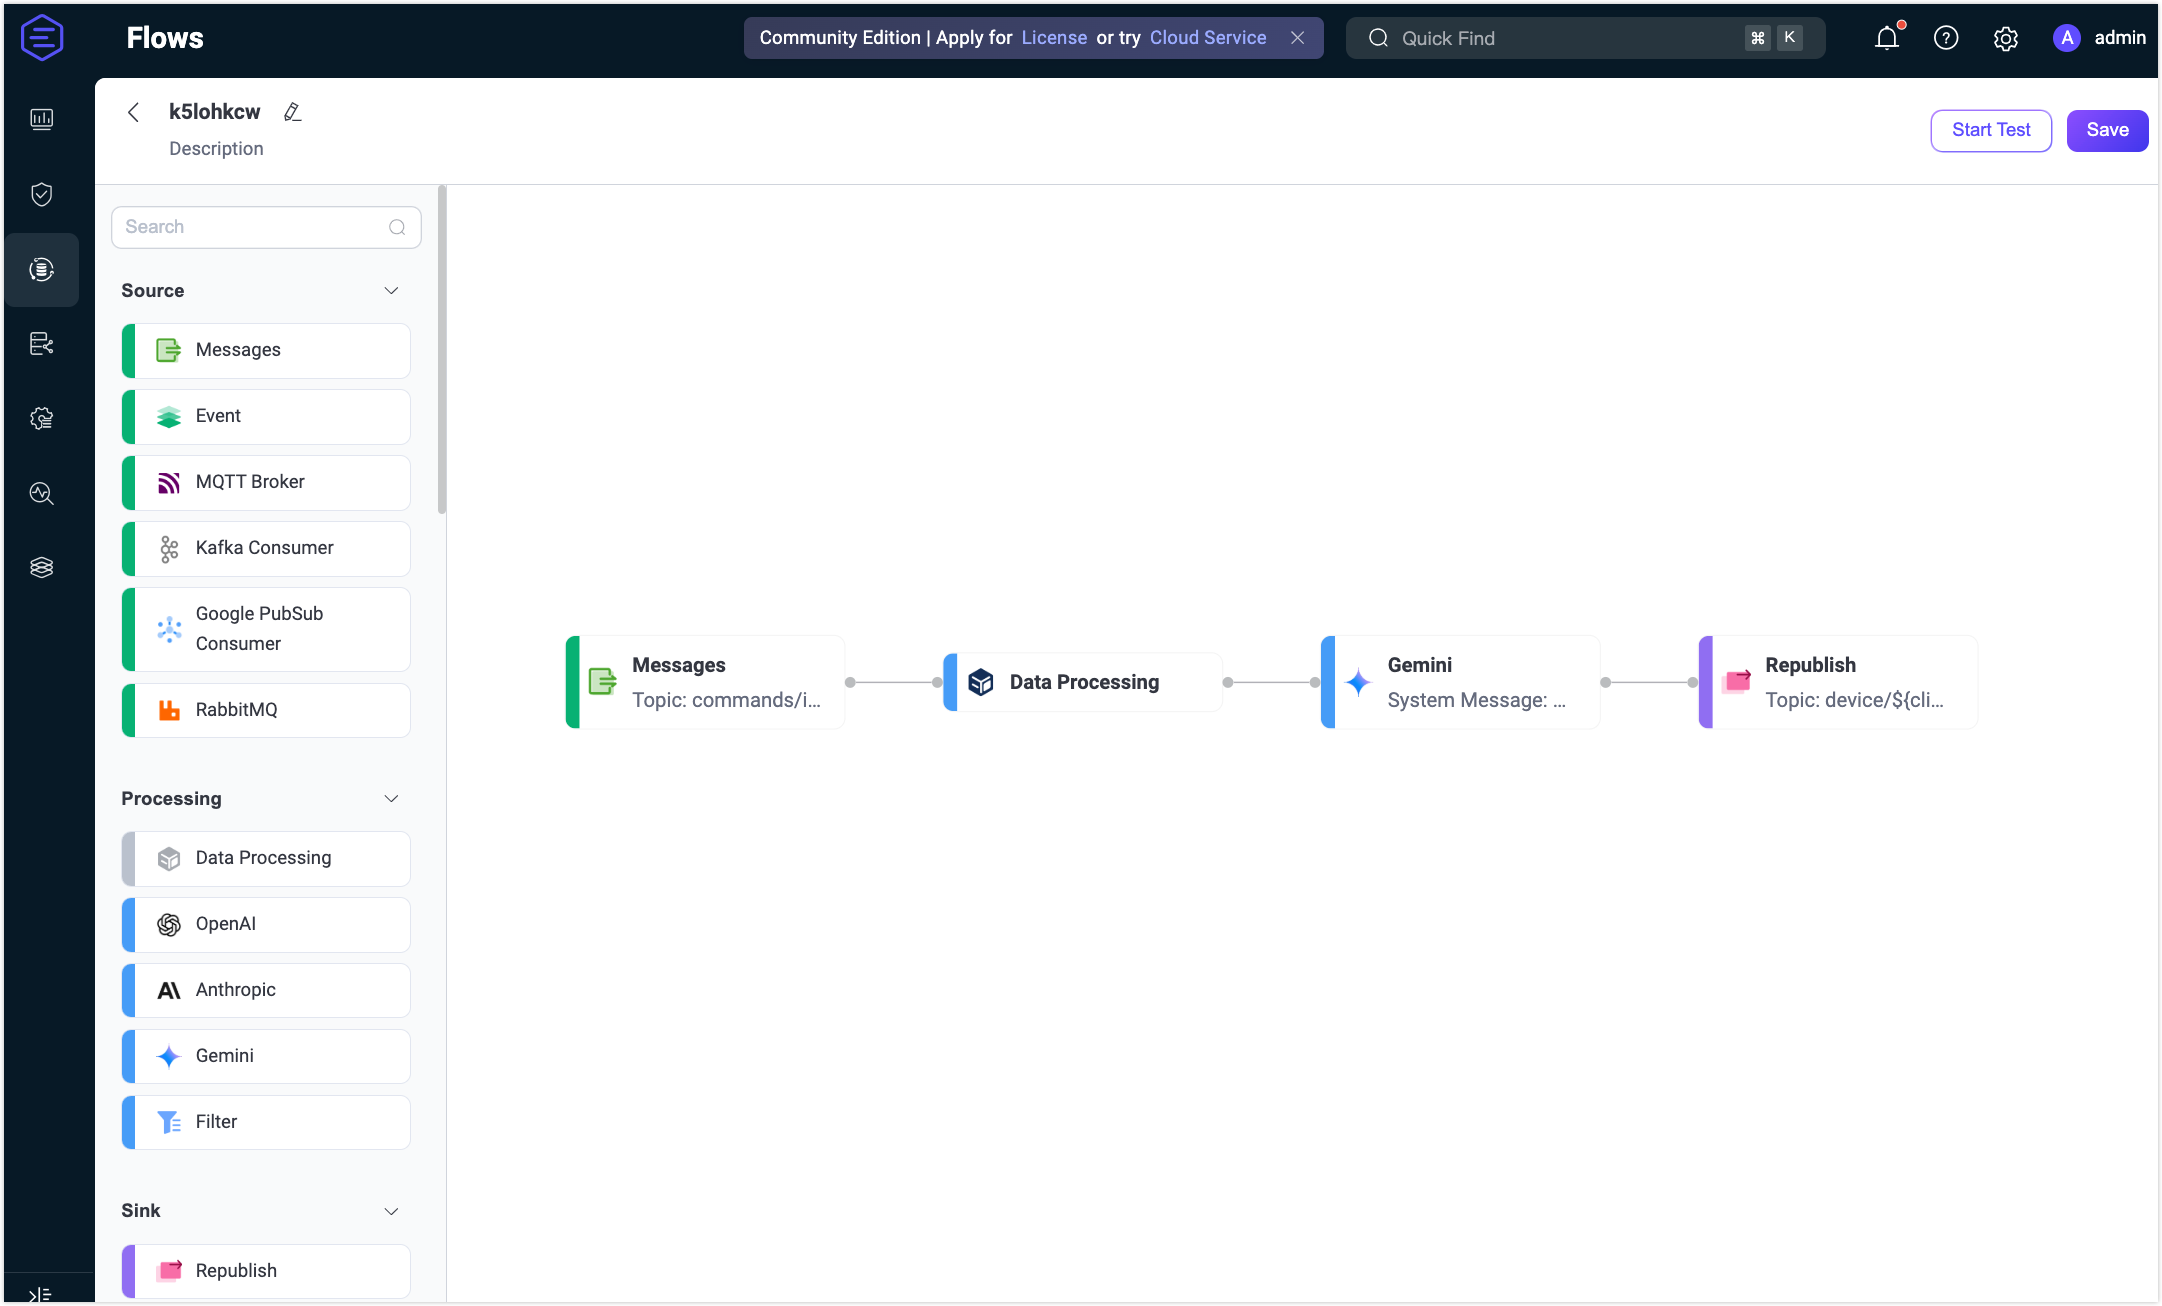
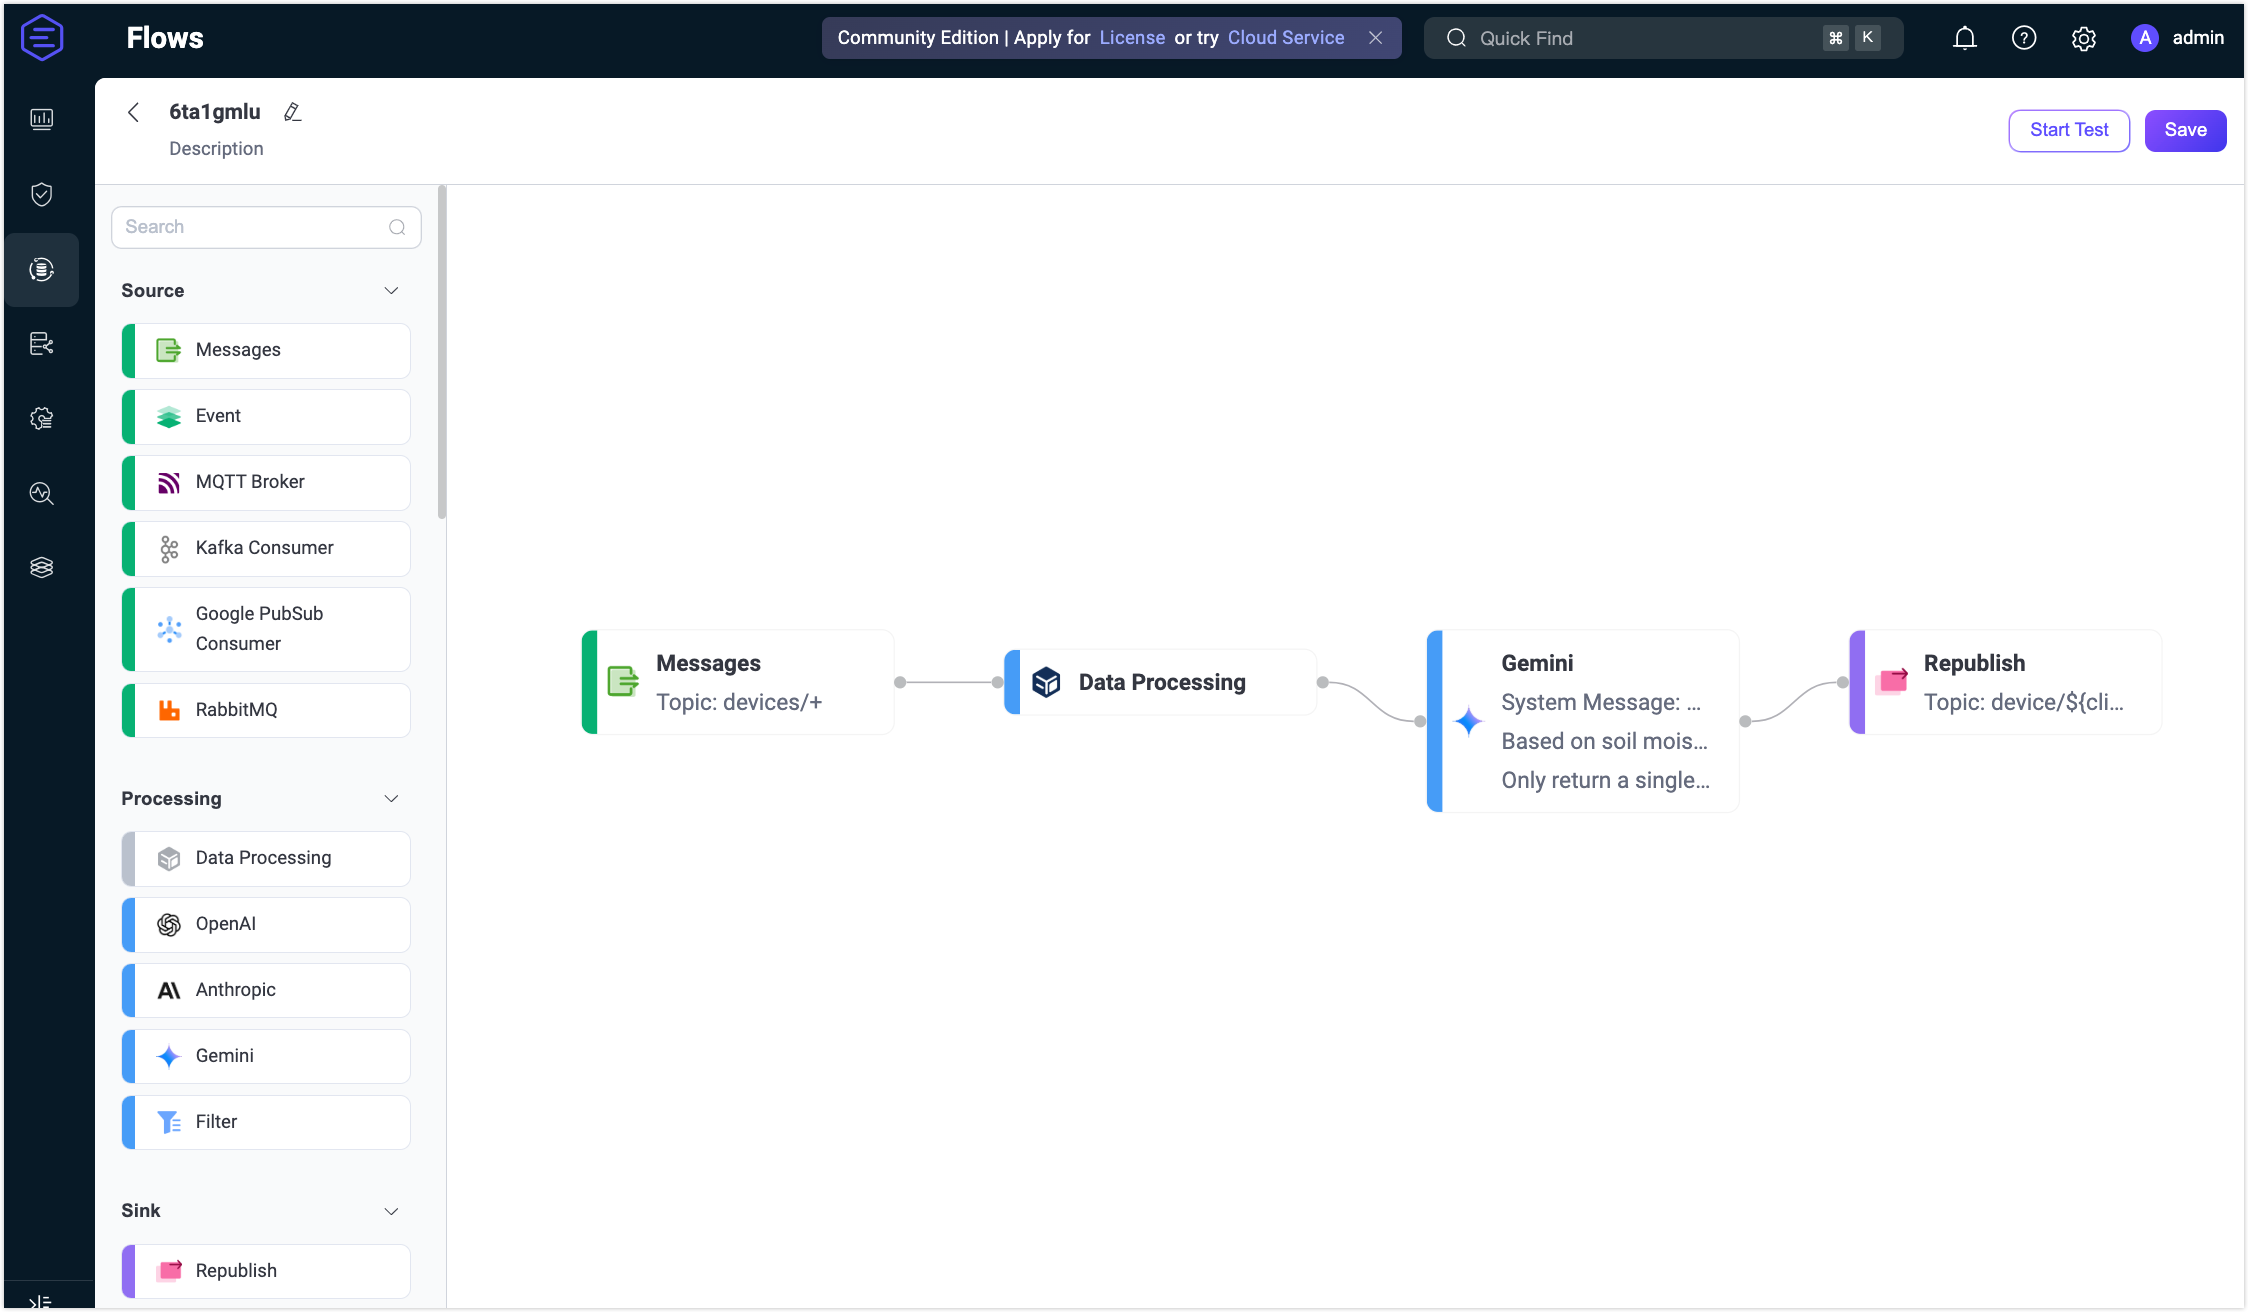
Update Gemini quick start guide

diff --git a/en_US/flow-designer/gemini-node-quick-start.md b/en_US/flow-designer/gemini-node-quick-start.md
@@ -2,28 +2,28 @@
 
 This section demonstrates how to quickly create and test an LLM-based Flow in the Flow Designer through a practical use case using the Gemini Node. 
 
-This example demonstrates how to build a Flow that integrates with the Gemini LLM to process MQTT device messages using dynamic input context, such as `clientid` and `payload.type`, by constructing a natural language prompt from multiple parameters. It breaks the limitation of single-field LLM input, enabling more flexible and context-aware AI processing. The workflow receives command-type messages from devices, generates a formatted response via the LLM, and republishes the result to a client-specific topic for further handling.
+This example demonstrates how to build a Flow that integrates with the Gemini LLM to process MQTT device messages containing a free-text `prompt` while preserving the `clientid` for routing. A single Data Processing node pulls out both `payload.prompt` and `clientid`. The Gemini node generates a reply based on that prompt, and the Republish node sends the AI’s reply to the per-client topic `device/${clientid}/reply`, ensuring each device receives its own customized advice.
 
 ## Scenario Description
 
-Assume a device reports a command request to the MQTT topic `commands/inbox/<clientid>`. Each message includes a command type, such as `restart`, in JSON format. The EMQX Flow will perform the following steps:
+In a smart agriculture deployment, each greenhouse is equipped with soil sensors that periodically publish JSON messages to the topic `devices/<greenhouse_id>`. Each message’s `prompt` field contains key environmental readings in plain text. The Flow will:
 
-- **Data Processing**: Build a prompt that includes the client ID and requested command type contained in the message payload.
-- **LLM-Based Processing**: Use a Gemini-compatible model to generate an action instruction based on the request.
-- **Message Republish**: Publish the AI-generated result to a topic such as `device/<clientid>/command`.
+- **Data Processing**: Extract the sensor readings from the `prompt` field and expose the `clientid` (i.e., `greenhouse_id`) for downstream use.
+- **LLM-Based Processing**: Send the readings to Gemini to generate an actionable irrigation recommendation.
+- **Message Republish**: Publish the AI-generated advice back to the per-greenhouse control topic `device/<greenhouse_id>/reply`.
 
-**Sample message:**
+**Sample incoming message (to `devices/gh_1`):**
 
 ```json
 {
-  "type": "restart"
+  "prompt": "Soil moisture is 18%. Air temperature is 28°C. Humidity is 65%."
 }
 ```
 
-**Expected output (AI-generated):**
+**Expected republished output (to `device/gh_1/reply`):**
 
-```css
-action:restart;client:clientid
+```
+Irrigate Zone 1 with 15 liters of water for 20 minutes.
 ```
 
 ## Create the Flow
@@ -39,89 +39,35 @@ Make sure you have a valid Gemini API Key.
 2. Add a **Messages** node.
 
    - Drag a **Messages** node from the Source panel.
-   - Set the topic to `commands/inbox/+`.
+   - Set the topic to `devices/+`.
    - Click **Save**.
 
 3. Add a **Data Processing** node.
 
    - Drag a **Data Processing** node from the **Processing** section.
-
-   - Fill in the transformation form with the following configurations. These transformations construct a readable natural language prompt that includes the MQTT client ID and the requested action type that will be contained in the message payload. This prompt will be sent to the Gemini LLM for processing.
+   - Fill in the form with the following configurations. This setting exposes `clientid` for later use to ensure that it is accessible in downstream nodes (e.g., for `${clientid}` in republish topics).
      
-     - Concatenate `Client ` and `clientid` into a base string. Creates the beginning of the prompt by identifying the client.
-       - **Field**: `clientid`
-       - **Transform**: Select `String Functions` -> `concat`
-       - **Alias**: `base`
-       - **String1**: `Client ` (include a space after the word)
-       - **String2**: `clientid`
-     - Concatenate `base` and `requested ` into `base2`. Adds the verb to indicate the action being requested.
-       - **Field**: `base`
-       - **Transform**: `concat`
-       - **Alias**: `base2`
-       - **String1**: `base`
-       - **String2**:  `  requested  ` (include a space before and after the word)
-     
-     - Concatenate `base2` and `payload.type` into `prompt`. Completes the full sentence for the LLM prompt.
-     
-       - **Field**: `base2`
-     
-       - **Transform**: `concat`
-     
-       - **Alias**: `prompt`
-     
-       - **String1**: `base2`
-     
-       - **String2**: `payload.type`
-     
-       ::: tip Example prompt result
-     
-       If a client with ID `device123` sends a message with payload `{ "type": "restart" }`, the resulting prompt will be:
-     
-       ```
-       Client device123 requested restart
-       ```
-     
-       :::
-     
-     - Expose `clientid` for later use to ensures that it is accessible in downstream nodes (e.g., for `${clientid}` in republish topics).
-     
-       - **Field**: `clientid`
-     
-       - **Transform**: Leave empty
-     
-       - **Alias**: `clientid`
-     
-   - Click **Switch to SQL**. You should see a SQL expression similar to:
-
-     ```sql
-     concat('Client ', clientid) as base, concat(base, ' requested ') as base2, concat(base2, payload.type) as prompt, clientid as clientid
-     ```
-
-     ::: tip
-
-     The `clientid` and `payload.type` should not be wrapped in quotes or treated as string literals.
-     They are field references, and quoting them would cause the rule to treat them as plain text instead of extracting their actual values from the message.
-
-     :::
-
+     - **Field**: `clientid`
+     - **Transform**: Leave empty
+     - **Alias**: `clientid`
    - Click **Save**.
-
+   
 4. Add a **Gemini** node.
 
    - Drag a **Gemini** node from the Processing section and connect it to the Data Processing node.
 
    - Configure the node:
 
-     - **Input**: Enter `prompt`.
+     - **Input**: Enter `payload.prompt`.
 
      - **System Message**: Enter the following message:
 
        ```
-       You are a device command formatter. Generate a short command in this format:
-       action:<type>;client:<clientid>
-       Only return a single line, no Markdown or extra formatting.
+       You are an expert agricultural AI assistant.  
+       Based on soil moisture, air temperature, and humidity readings provided in the user prompt, generate a concise irrigation recommendation specifying the zone, amount of water (in liters), and duration.  
+       Only return a single sentence with the recommendation—no extra commentary.
        ```
-
+       
      - **Model**: Here you can keep the default model `gemini-2.0-flash`.
 
      - **API Key**: Enter your Gemini API key.
@@ -135,7 +81,7 @@ Make sure you have a valid Gemini API Key.
 5. Add a **Republish** node.
 
    - Drag a **Republish** node from the Sink section and connect it to the Gemini node.
-   - Set the topic to `device/${clientid}/command`.
+   - Set the topic to `device/${clientid}/reply`.
    - Set the payload to `${ai_reply}`.
    - Click **Save**.
 
@@ -154,7 +100,7 @@ Make sure you have a valid Gemini API Key.
    To quickly test the flow, you can use the **Diagnostic Tools** -> **WebSocket Client** on the Dashboard to simulate an MQTT client. Alternatively, you can also use the [MQTTX](https://mqttx.app/) tool or a real MQTT client:
 
    - Connect to your EMQX server.
-   - Subscribe to the topic, for example `device/c_emqx/command`.
+   - Subscribe to the topic, for example `device/gh_1/reply`.
 
 2. Start Testing.
 
@@ -162,11 +108,11 @@ Make sure you have a valid Gemini API Key.
 
    - Click **Edit**, then click **Start Test** to open the test panel at the bottom.
 
-   - Click **Input Simulated Data** and publish this message to topic `commands/inbox/c_emqx` by clicking **Submit Test**:
+   - Click **Input Simulated Data** and publish the following message to topic `device/gh_1` by clicking **Submit Test**:
 
      ```json
      {
-       "type": "restart"
+       "prompt": "Soil moisture is 18%. Air temperature is 28°C. Humidity is 65%."
      }
      ```
    
@@ -178,7 +124,7 @@ Make sure you have a valid Gemini API Key.
 
    - Return to the **WebSocket Client** page and you should receive an AI-generated summary like:
 
-     > “action:restart;client:c_emqx”
+     > “Irrigate Zone 1 with 15 liters of water for 20 minutes.”
 
    - If the test results are unsuccessful, error messages will be displayed accordingly.
 
